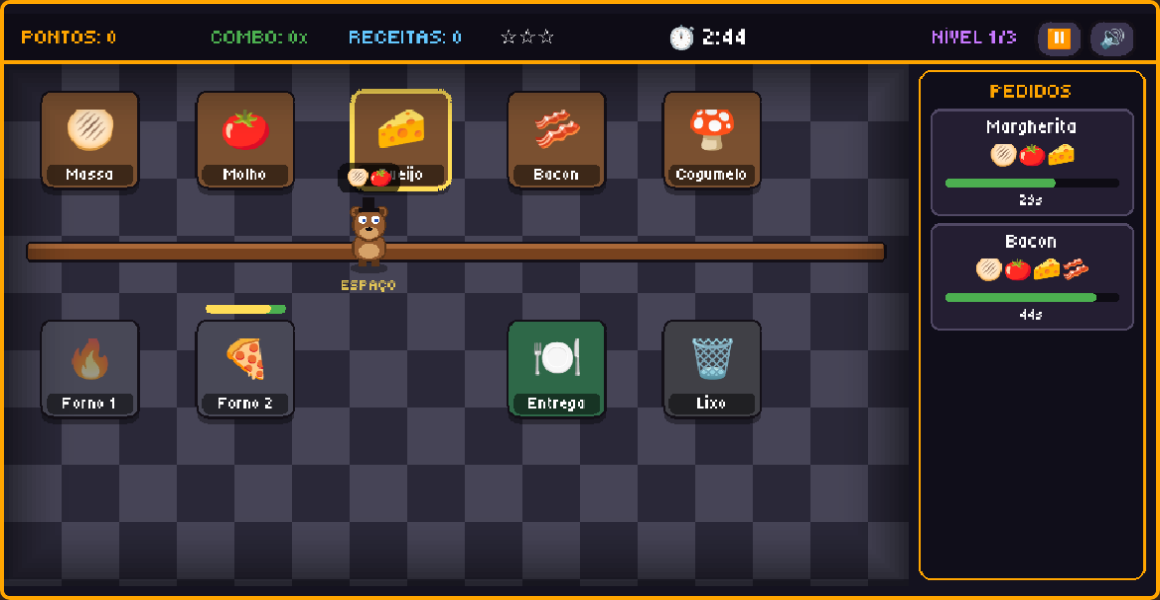
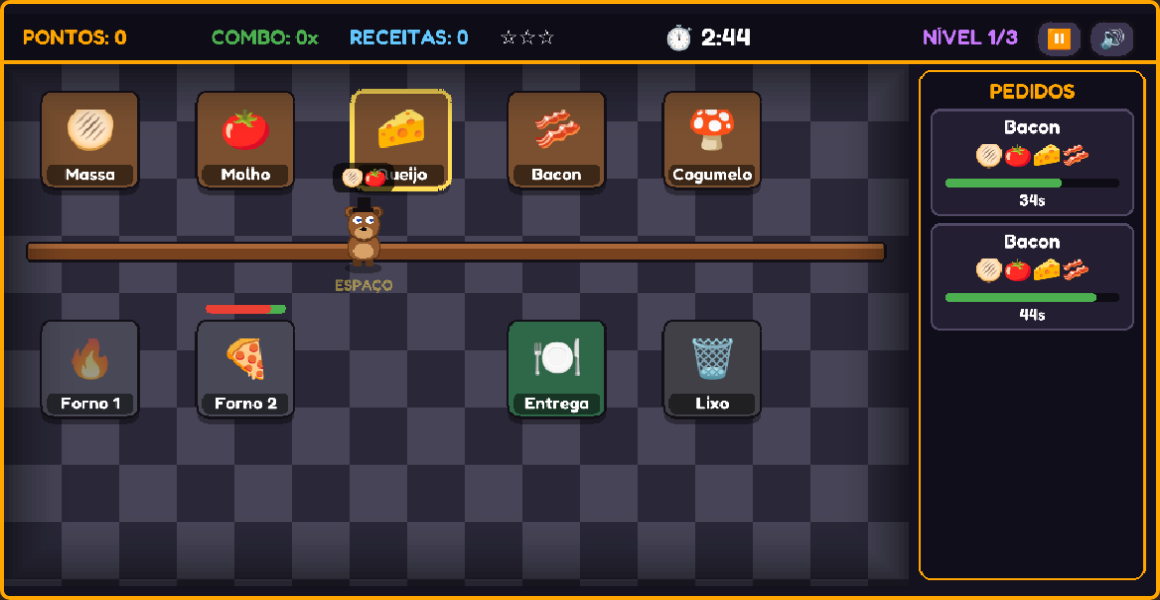
Use a smooth font for small text
Pixel fonts only render cleanly at integer scales, so small labels looked
jagged once the canvas was letterboxed. Small text now uses Fredoka and
the Tiny5 pixel font is kept for titles and buttons.

Also point the README clone URL at the mcemy repository and refresh the
screenshots.

diff --git a/main.js b/main.js
@@ -1,5 +1,6 @@
 import kaplay from "kaplay";
 import pixelFontUrl from "@fontsource/tiny5/files/tiny5-latin-400-normal.woff2?url";
+import bodyFontUrl from "@fontsource/fredoka/files/fredoka-latin-600-normal.woff2?url";
 
 // ==================== CONFIG ====================
 const GAME_WIDTH = 1000;
@@ -173,15 +174,14 @@ const k = kaplay({
   background: [20, 18, 31],
   letterbox: true,
   stretch: false,
-  font: "pixel",
+  font: "body",
   global: false,
 });
 
-// A fonte pixel fica borrada quando o atlas é muito maior que o texto,
-// então textos pequenos e grandes usam atlas de tamanhos diferentes
-k.loadFont("pixel", pixelFontUrl, { size: 32, filter: "linear" });
-k.loadFont("pixel-big", pixelFontUrl, { size: 64, filter: "linear" });
-const fontFor = (size) => (size >= 28 ? "pixel-big" : "pixel");
+// Fonte pixel só fica nítida em tamanhos grandes; textos pequenos usam uma fonte lisa
+k.loadFont("body", bodyFontUrl, { size: 48, filter: "linear" });
+k.loadFont("pixel", pixelFontUrl, { size: 64, filter: "linear" });
+const fontFor = (size) => (size >= 24 ? "pixel" : "body");
 
 const WHITE = k.rgb(255, 255, 255);
 const BLACK = k.rgb(0, 0, 0);
@@ -926,7 +926,7 @@ k.scene("game", ({ level = 1, totalScore = 0, stars = [] } = {}) => {
             text: stationIcon(this),
             pos: k.vec2(0, -8),
             size: 36,
-            font: "pixel-big",
+            font: "pixel",
             anchor: "center",
             opacity: idleOven ? 0.45 : 1,
           });
@@ -1756,7 +1756,7 @@ k.scene("gameover", (data) => {
 
   k.wait(0.5, () => {
     jumpscare.add([
-      k.text("GAME OVER", { size: 64, font: "pixel-big" }),
+      k.text("GAME OVER", { size: 64, font: "pixel" }),
       k.pos(GAME_WIDTH / 2, GAME_HEIGHT - 60),
       k.anchor("center"),
       k.color(RED),

diff --git a/readme.md b/readme.md
@@ -87,7 +87,7 @@ There are 3 levels. Each one has a shorter shift, tighter order timers and more 
 Requires [Node.js](https://nodejs.org) 20+.
 
 ```bash
-git clone https://github.com/EMILE-FERREIRA-DTI/fnaf-inspired-overcooked-game.git
+git clone https://github.com/mcemy/fnaf-inspired-overcooked-game.git
 cd fnaf-inspired-overcooked-game
 npm install
 npm run dev
@@ -109,7 +109,7 @@ Then open the URL Vite prints (usually `http://localhost:5173`). `npm start` doe
 | --- | --- |
 | [Kaplay](https://kaplayjs.com) | Game engine: scenes, input, drawing, audio |
 | JavaScript | All the game logic (`main.js`) |
-| [Tiny5](https://fonts.google.com/specimen/Tiny5) | Pixel font |
+| [Tiny5](https://fonts.google.com/specimen/Tiny5) + [Fredoka](https://fonts.google.com/specimen/Fredoka) | Pixel font for titles, rounded font for small text |
 | Vite | Dev server and build |
 | Vercel | Hosting |
 
